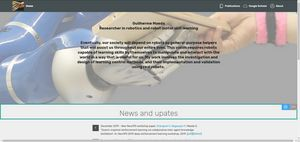
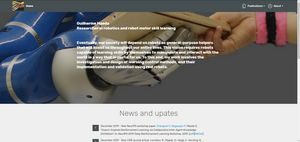
fix bio.

diff --git a/About.html b/About.html
@@ -7,9 +7,9 @@
   <meta name="generator" content="Mobirise v4.11.2, mobirise.com">
   <meta name="viewport" content="width=device-width, initial-scale=1, minimum-scale=1">
   <link rel="shortcut icon" href="assets/images/icon2.gif" type="image/x-icon">
-  <meta name="description" content="maeda-about">
+  <meta name="description" content="maeda-bio">
   
-  <title>maeda-About</title>
+  <title>maeda-bio</title>
   <link rel="stylesheet" href="assets/web/assets/mobirise-icons/mobirise-icons.css">
   <link rel="stylesheet" href="assets/bootstrap/css/bootstrap.min.css">
   <link rel="stylesheet" href="assets/bootstrap/css/bootstrap-grid.min.css">
@@ -23,7 +23,7 @@
   
 </head>
 <body>
-  <section class="menu cid-qTkzRZLJNu" once="menu" id="menu1-1e">
+  <section class="menu cid-rJTbhzoMgV" once="menu" id="menu1-30">
 
     
 
@@ -47,19 +47,17 @@
             </div>
         </div>
         <div class="collapse navbar-collapse" id="navbarSupportedContent">
-            <ul class="navbar-nav nav-dropdown nav-right" data-app-modern-menu="true"><li class="nav-item">
-                    <a class="nav-link link text-white display-4" href="publications.html" target="_blank"><span class="mbri-pages mbr-iconfont mbr-iconfont-btn"></span>Publications</a>
-                </li><li class="nav-item"><a class="nav-link link text-white display-4" href="https://scholar.google.co.jp/citations?user=fVCyyDgAAAAJ&hl=en" target="_blank"><span class="mbri-cloud mbr-iconfont mbr-iconfont-btn"></span>
+            <ul class="navbar-nav nav-dropdown nav-right" data-app-modern-menu="true"><li class="nav-item dropdown">
+                    <a class="nav-link link text-white dropdown-toggle display-4" href="publications.html" data-toggle="dropdown-submenu" aria-expanded="true"><span class="mbri-pages mbr-iconfont mbr-iconfont-btn"></span>Publications</a><div class="dropdown-menu"><a class="text-white dropdown-item display-4" href="publications.html" target="_blank">Publication list</a><a class="text-white dropdown-item display-4" href="https://scholar.google.co.jp/citations?user=fVCyyDgAAAAJ&hl=en" target="_blank" aria-expanded="false">Google Scholar</a></div>
+                </li><li class="nav-item dropdown"><a class="nav-link link text-white dropdown-toggle display-4" href="about.html" data-toggle="dropdown-submenu" aria-expanded="false"><span class="mbri-user mbr-iconfont mbr-iconfont-btn"></span>
                         
-                        Google Scholar</a></li><li class="nav-item"><a class="nav-link link text-white display-4" href="about.html" target="_blank"><span class="mbri-user mbr-iconfont mbr-iconfont-btn"></span>
-                        
-                        About</a></li></ul>
+                        About</a><div class="dropdown-menu"><a class="text-white dropdown-item display-4" href="about.html">Bio and contact</a><a class="text-white dropdown-item display-4" href="./pdf/resume_gjmaeda.pdf" target="_blank" aria-expanded="true">CV</a></div></li></ul>
             
         </div>
     </nav>
 </section>
 
-<section class="engine"><a href="https://mobirise.info/h">how to create a web page</a></section><section class="features11 cid-rJGOx5gKIQ" id="features11-1q">
+<section class="engine"><a href="https://mobirise.info/v">html templates</a></section><section class="features11 cid-rJTbhAfdv0" id="features11-31">
 
     
 
@@ -89,15 +87,11 @@
                             <div class="card-box">
                                 <p class="block-text mbr-fonts-style display-7">I am a research scientist working with robots. The motivation of my work is to contribute to the technology that will eventually enable robots to autonomously learn how to help us, without the need of hand-coded programs. 
 <br>
-<br>Applications of interest are those where the robot executes complex, physical interactions with the environment. By complex, I mean interactions that cannot be easily described by physics modeling and first-order principles. One example is when a robot must assess what a human partner is doing so that it can generate corresponding control commands to assist him/her. Another example is when a remotely-located robot must self-adapt to the environment without human supervision. 
+<br>Autonomous learning is essential when the robotics engineer cannot anticipate which tasks the robot will face after deployment---for example, robots at home or in the hospital---so he cannot pre-program it in advance. Or when the task cannot be easily described by physics modeling and first-order principles such as in this paper [1]; in which case the only hope is that the robot learns the underlying dynamics by itself. Another scenario is when a robot must assess what a human partner is doing so that it can generate corresponding control commands to assist him/her [2]. A learning control example is when a remotely-located robot must self-adapt to the environment without human supervision [3].&nbsp;<br>
+<br>Why should we care about such capabilities? Ultimately, we may have to rely on robots to fill existing/future gaps in our society. Think about the inevitable and unprecedented growth of the elderly population around the globe, the assistance of communities and exploration of resources in remote areas, rescue and disaster response, optimized and adaptive rehabilitation and prosthetics. It is hard to imagine there will be an engineer available to program the robot under these scenarios, where each scenario may encompass numerous and unforesseable tasks.<br>
+<br>Bio: since 2019, I am working as a researcher at Preferred Networks Inc in Tokyo, Japan. Previously, I was at the ATR Computational Neuroscience Lab in the Department of Brain Robot Interface (BRI) also in Japan. Between 2013-2017, I was with the Intelligent Autonomous Systems group (IAS) in TU Darmstadt working with Jan Peters where I led the participation of the IAS group in the European Funded Project 3rd Hand. I received my Ph.D from the Australian Centre for Field Robotics (ACFR) under the supervision of Hugh Durrant-Whyte, Surya Singh, David Rye, and Ian Manchester. Between 2005-2007 I did a master's at the Tokyo Institute of Technology (TITECH) in control engineering. 
 <br>
-<br>Why should we care about such capabilities? Ultimately, we may have to rely on robots to fill existing/future gaps in our society. Examples are found in the inevitable, unprecedented growth of the elderly population, the assistance of communities and exploration of resources in remote areas, rescue and disaster response, optimized and adaptive rehabilitation and prosthetics, to cite a few. 
-<br>
-<br>Since 2019, I am working as a researcher at Preferred Networks Inc in Tokyo, Japan. Previously, I was at the ATR Computational Neuroscience Lab in the Department of Brain Robot Interface (BRI) also in Japan. Between 2013-2017, I was with the Intelligent Autonomous Systems group (IAS) in TU Darmstadt working with Jan Peters where I led the participation of the IAS group in the European Funded Project 3rd Hand. I received my Ph.D from the Australian Centre for Field Robotics (ACFR) under the supervision of Hugh Durrant-Whyte, Surya Singh, David Rye, and Ian Manchester. Between 2005-2007 I did a master's at the Tokyo Institute of Technology (TITECH) in control engineering. 
-<br>
-<br>You can find my <a href="./pdf/resume_gjmaeda.pdf" target="_blank">CV here</a>. 
-<br>
-<br>Contact : gjmaeda@preferred.jp</p>
+<br>Contact : gjmaeda@preferred.jp<br></p>
                             </div>
                         </div>
 
@@ -107,6 +101,19 @@
             </div>
         </div> 
     </div>          
+</section>
+
+<section class="mbr-section article content1 cid-rJTbwxphx1" id="content1-32">
+    
+     
+
+    <div class="container">
+        <div class="media-container-row">
+            <div class="mbr-text col-12 mbr-fonts-style display-7 col-md-10"><p>[1] Maeda, G.; Koc, O.; Morimoto, J. (2018). “Reinforcement Learning of Phase Oscillators for Fast Adaptation to Moving Targets”, Proceedings of Machine Learning Research (PMLR). Conference on Robot Learning (CoRL) 
+<span style="font-size: 1rem;"></span></p><p>[2] Maeda, G.; Neumann, G.; Ewerton, M; Lioutikov, R.; Kroemer, O.; Peters, J. (2017). “Probabilistic Movement Primitives for Coordination of Multiple Human-Robot Collaborative Tasks”, Autonomous Robots (AURO), vol. 41, no. 3, pp. 593–612. 
+<span style="font-size: 1rem;"></span></p><p>[3] Maeda, G.; Manchester, I.; Rye, D. (2015). “Combined ILC and disturbance observer for the rejection of near-repetitive disturbances, with application to excavation”, IEEE Transactions on Control Systems Technology, vol. 23, no. 5, pp. 1754–1769.</p></div>
+        </div>
+    </div>
 </section>
 
 

diff --git a/about.html b/about.html
@@ -7,9 +7,9 @@
   <meta name="generator" content="Mobirise v4.11.2, mobirise.com">
   <meta name="viewport" content="width=device-width, initial-scale=1, minimum-scale=1">
   <link rel="shortcut icon" href="assets/images/icon2.gif" type="image/x-icon">
-  <meta name="description" content="maeda-about">
+  <meta name="description" content="maeda-bio">
   
-  <title>maeda-About</title>
+  <title>maeda-bio</title>
   <link rel="stylesheet" href="assets/web/assets/mobirise-icons/mobirise-icons.css">
   <link rel="stylesheet" href="assets/bootstrap/css/bootstrap.min.css">
   <link rel="stylesheet" href="assets/bootstrap/css/bootstrap-grid.min.css">
@@ -23,7 +23,7 @@
   
 </head>
 <body>
-  <section class="menu cid-qTkzRZLJNu" once="menu" id="menu1-1e">
+  <section class="menu cid-rJTbhzoMgV" once="menu" id="menu1-30">
 
     
 
@@ -47,19 +47,17 @@
             </div>
         </div>
         <div class="collapse navbar-collapse" id="navbarSupportedContent">
-            <ul class="navbar-nav nav-dropdown nav-right" data-app-modern-menu="true"><li class="nav-item">
-                    <a class="nav-link link text-white display-4" href="publications.html" target="_blank"><span class="mbri-pages mbr-iconfont mbr-iconfont-btn"></span>Publications</a>
-                </li><li class="nav-item"><a class="nav-link link text-white display-4" href="https://scholar.google.co.jp/citations?user=fVCyyDgAAAAJ&hl=en" target="_blank"><span class="mbri-cloud mbr-iconfont mbr-iconfont-btn"></span>
+            <ul class="navbar-nav nav-dropdown nav-right" data-app-modern-menu="true"><li class="nav-item dropdown">
+                    <a class="nav-link link text-white dropdown-toggle display-4" href="publications.html" data-toggle="dropdown-submenu" aria-expanded="true"><span class="mbri-pages mbr-iconfont mbr-iconfont-btn"></span>Publications</a><div class="dropdown-menu"><a class="text-white dropdown-item display-4" href="publications.html" target="_blank">Publication list</a><a class="text-white dropdown-item display-4" href="https://scholar.google.co.jp/citations?user=fVCyyDgAAAAJ&hl=en" target="_blank" aria-expanded="false">Google Scholar</a></div>
+                </li><li class="nav-item dropdown"><a class="nav-link link text-white dropdown-toggle display-4" href="about.html" data-toggle="dropdown-submenu" aria-expanded="false"><span class="mbri-user mbr-iconfont mbr-iconfont-btn"></span>
                         
-                        Google Scholar</a></li><li class="nav-item"><a class="nav-link link text-white display-4" href="about.html" target="_blank"><span class="mbri-user mbr-iconfont mbr-iconfont-btn"></span>
-                        
-                        About</a></li></ul>
+                        About</a><div class="dropdown-menu"><a class="text-white dropdown-item display-4" href="about.html">Bio and contact</a><a class="text-white dropdown-item display-4" href="./pdf/resume_gjmaeda.pdf" target="_blank" aria-expanded="true">CV</a></div></li></ul>
             
         </div>
     </nav>
 </section>
 
-<section class="engine"><a href="https://mobirise.info/h">how to create a web page</a></section><section class="features11 cid-rJGOx5gKIQ" id="features11-1q">
+<section class="engine"><a href="https://mobirise.info/v">html templates</a></section><section class="features11 cid-rJTbhAfdv0" id="features11-31">
 
     
 
@@ -89,15 +87,11 @@
                             <div class="card-box">
                                 <p class="block-text mbr-fonts-style display-7">I am a research scientist working with robots. The motivation of my work is to contribute to the technology that will eventually enable robots to autonomously learn how to help us, without the need of hand-coded programs. 
 <br>
-<br>Applications of interest are those where the robot executes complex, physical interactions with the environment. By complex, I mean interactions that cannot be easily described by physics modeling and first-order principles. One example is when a robot must assess what a human partner is doing so that it can generate corresponding control commands to assist him/her. Another example is when a remotely-located robot must self-adapt to the environment without human supervision. 
+<br>Autonomous learning is essential when the robotics engineer cannot anticipate which tasks the robot will face after deployment---for example, robots at home or in the hospital---so he cannot pre-program it in advance. Or when the task cannot be easily described by physics modeling and first-order principles such as in this paper [1]; in which case the only hope is that the robot learns the underlying dynamics by itself. Another scenario is when a robot must assess what a human partner is doing so that it can generate corresponding control commands to assist him/her [2]. A learning control example is when a remotely-located robot must self-adapt to the environment without human supervision [3].&nbsp;<br>
+<br>Why should we care about such capabilities? Ultimately, we may have to rely on robots to fill existing/future gaps in our society. Think about the inevitable and unprecedented growth of the elderly population around the globe, the assistance of communities and exploration of resources in remote areas, rescue and disaster response, optimized and adaptive rehabilitation and prosthetics. It is hard to imagine there will be an engineer available to program the robot under these scenarios, where each scenario may encompass numerous and unforesseable tasks.<br>
+<br>Bio: since 2019, I am working as a researcher at Preferred Networks Inc in Tokyo, Japan. Previously, I was at the ATR Computational Neuroscience Lab in the Department of Brain Robot Interface (BRI) also in Japan. Between 2013-2017, I was with the Intelligent Autonomous Systems group (IAS) in TU Darmstadt working with Jan Peters where I led the participation of the IAS group in the European Funded Project 3rd Hand. I received my Ph.D from the Australian Centre for Field Robotics (ACFR) under the supervision of Hugh Durrant-Whyte, Surya Singh, David Rye, and Ian Manchester. Between 2005-2007 I did a master's at the Tokyo Institute of Technology (TITECH) in control engineering. 
 <br>
-<br>Why should we care about such capabilities? Ultimately, we may have to rely on robots to fill existing/future gaps in our society. Examples are found in the inevitable, unprecedented growth of the elderly population, the assistance of communities and exploration of resources in remote areas, rescue and disaster response, optimized and adaptive rehabilitation and prosthetics, to cite a few. 
-<br>
-<br>Since 2019, I am working as a researcher at Preferred Networks Inc in Tokyo, Japan. Previously, I was at the ATR Computational Neuroscience Lab in the Department of Brain Robot Interface (BRI) also in Japan. Between 2013-2017, I was with the Intelligent Autonomous Systems group (IAS) in TU Darmstadt working with Jan Peters where I led the participation of the IAS group in the European Funded Project 3rd Hand. I received my Ph.D from the Australian Centre for Field Robotics (ACFR) under the supervision of Hugh Durrant-Whyte, Surya Singh, David Rye, and Ian Manchester. Between 2005-2007 I did a master's at the Tokyo Institute of Technology (TITECH) in control engineering. 
-<br>
-<br>You can find my <a href="./pdf/resume_gjmaeda.pdf" target="_blank">CV here</a>. 
-<br>
-<br>Contact : gjmaeda@preferred.jp</p>
+<br>Contact : gjmaeda@preferred.jp<br></p>
                             </div>
                         </div>
 
@@ -107,6 +101,19 @@
             </div>
         </div> 
     </div>          
+</section>
+
+<section class="mbr-section article content1 cid-rJTbwxphx1" id="content1-32">
+    
+     
+
+    <div class="container">
+        <div class="media-container-row">
+            <div class="mbr-text col-12 mbr-fonts-style display-7 col-md-10"><p>[1] Maeda, G.; Koc, O.; Morimoto, J. (2018). “Reinforcement Learning of Phase Oscillators for Fast Adaptation to Moving Targets”, Proceedings of Machine Learning Research (PMLR). Conference on Robot Learning (CoRL) 
+<span style="font-size: 1rem;"></span></p><p>[2] Maeda, G.; Neumann, G.; Ewerton, M; Lioutikov, R.; Kroemer, O.; Peters, J. (2017). “Probabilistic Movement Primitives for Coordination of Multiple Human-Robot Collaborative Tasks”, Autonomous Robots (AURO), vol. 41, no. 3, pp. 593–612. 
+<span style="font-size: 1rem;"></span></p><p>[3] Maeda, G.; Manchester, I.; Rye, D. (2015). “Combined ILC and disturbance observer for the rejection of near-repetitive disturbances, with application to excavation”, IEEE Transactions on Control Systems Technology, vol. 23, no. 5, pp. 1754–1769.</p></div>
+        </div>
+    </div>
 </section>
 
 

diff --git a/publications.html b/publications.html
@@ -23,41 +23,7 @@
   
 </head>
 <body>
-  <section class="menu cid-qTkzRZLJNu" once="menu" id="menu1-b">
-
-    
-
-    <nav class="navbar navbar-expand beta-menu navbar-dropdown align-items-center navbar-fixed-top navbar-toggleable-sm">
-        <button class="navbar-toggler navbar-toggler-right" type="button" data-toggle="collapse" data-target="#navbarSupportedContent" aria-controls="navbarSupportedContent" aria-expanded="false" aria-label="Toggle navigation">
-            <div class="hamburger">
-                <span></span>
-                <span></span>
-                <span></span>
-                <span></span>
-            </div>
-        </button>
-        <div class="menu-logo">
-            <div class="navbar-brand">
-                <span class="navbar-logo">
-                    <a href="index.html">
-                         <img src="assets/images/icon2.gif" alt="Mobirise" title="" style="height: 3.8rem;">
-                    </a>
-                </span>
-                <span class="navbar-caption-wrap"><a class="navbar-caption text-white display-4" href="index.html">Home</a></span>
-            </div>
-        </div>
-        <div class="collapse navbar-collapse" id="navbarSupportedContent">
-            <ul class="navbar-nav nav-dropdown nav-right" data-app-modern-menu="true"><li class="nav-item dropdown">
-                    <a class="nav-link link text-white dropdown-toggle display-4" href="publications.html" target="_blank" data-toggle="dropdown-submenu" aria-expanded="false"><span class="mbri-pages mbr-iconfont mbr-iconfont-btn"></span>Publications</a><div class="dropdown-menu"><a class="text-white dropdown-item display-4" href="publications.html" target="_blank">Publication list</a><a class="text-white dropdown-item display-4" href="https://scholar.google.co.jp/citations?user=fVCyyDgAAAAJ&hl=en" target="_blank" aria-expanded="false">Google Scholar</a></div>
-                </li><li class="nav-item dropdown"><a class="nav-link link text-white dropdown-toggle display-4" href="about.html" target="_blank" data-toggle="dropdown-submenu" aria-expanded="false"><span class="mbri-user mbr-iconfont mbr-iconfont-btn"></span>
-                        
-                        About</a><div class="dropdown-menu"><a class="text-white dropdown-item display-4" href="bio.html" target="_blank">Bio and contact</a><a class="text-white dropdown-item display-4" href="./pdf/resume_gjmaeda.pdf" target="_blank" aria-expanded="true">CV</a></div></li></ul>
-            
-        </div>
-    </nav>
-</section>
-
-<section class="engine"><a href="https://mobirise.info/i">free site creation software</a></section><section class="header1 cid-rJBDbmgh4x" id="header16-11">
+  <section class="header1 cid-rJBDbmgh4x" id="header16-11">
 
     
 
@@ -77,7 +43,7 @@
 
 </section>
 
-<section class="mbr-section article content1 cid-rJHnwhnCUP" id="content1-1x">
+<section class="engine"><a href="https://mobirise.info">Mobirise</a></section><section class="mbr-section article content1 cid-rJHnwhnCUP" id="content1-1x">
     
      
 
@@ -111,6 +77,40 @@
             </div>
         </div>
     </div>
+</section>
+
+<section class="menu cid-qTkzRZLJNu" once="menu" id="menu1-b">
+
+    
+
+    <nav class="navbar navbar-expand beta-menu navbar-dropdown align-items-center navbar-fixed-top navbar-toggleable-sm">
+        <button class="navbar-toggler navbar-toggler-right" type="button" data-toggle="collapse" data-target="#navbarSupportedContent" aria-controls="navbarSupportedContent" aria-expanded="false" aria-label="Toggle navigation">
+            <div class="hamburger">
+                <span></span>
+                <span></span>
+                <span></span>
+                <span></span>
+            </div>
+        </button>
+        <div class="menu-logo">
+            <div class="navbar-brand">
+                <span class="navbar-logo">
+                    <a href="index.html">
+                         <img src="assets/images/icon2.gif" alt="Mobirise" title="" style="height: 3.8rem;">
+                    </a>
+                </span>
+                <span class="navbar-caption-wrap"><a class="navbar-caption text-white display-4" href="index.html">Home</a></span>
+            </div>
+        </div>
+        <div class="collapse navbar-collapse" id="navbarSupportedContent">
+            <ul class="navbar-nav nav-dropdown nav-right" data-app-modern-menu="true"><li class="nav-item dropdown open">
+                    <a class="nav-link link text-white dropdown-toggle display-4" href="publications.html" data-toggle="dropdown-submenu" aria-expanded="true"><span class="mbri-pages mbr-iconfont mbr-iconfont-btn"></span>Publications</a><div class="dropdown-menu"><a class="text-white dropdown-item display-4" href="publications.html" target="_blank">Publication list</a><a class="text-white dropdown-item display-4" href="https://scholar.google.co.jp/citations?user=fVCyyDgAAAAJ&hl=en" target="_blank" aria-expanded="false">Google Scholar</a></div>
+                </li><li class="nav-item dropdown"><a class="nav-link link text-white dropdown-toggle display-4" href="about.html" data-toggle="dropdown-submenu" aria-expanded="false"><span class="mbri-user mbr-iconfont mbr-iconfont-btn"></span>
+                        
+                        About</a><div class="dropdown-menu"><a class="text-white dropdown-item display-4" href="about.html">Bio and contact</a><a class="text-white dropdown-item display-4" href="./pdf/resume_gjmaeda.pdf" target="_blank" aria-expanded="true">CV</a></div></li></ul>
+            
+        </div>
+    </nav>
 </section>
 
 <section class="mbr-section article content1 cid-rJpFAuDlRG" id="content1-k">

diff --git a/bio.html b/bio.html
@@ -7,9 +7,9 @@
   <meta name="generator" content="Mobirise v4.11.2, mobirise.com">
   <meta name="viewport" content="width=device-width, initial-scale=1, minimum-scale=1">
   <link rel="shortcut icon" href="assets/images/icon2.gif" type="image/x-icon">
-  <meta name="description" content="maeda-bio">
+  <meta name="description" content="maeda-bio_d">
   
-  <title>maeda-bio</title>
+  <title>maeda-bio_d</title>
   <link rel="stylesheet" href="assets/web/assets/mobirise-icons/mobirise-icons.css">
   <link rel="stylesheet" href="assets/bootstrap/css/bootstrap.min.css">
   <link rel="stylesheet" href="assets/bootstrap/css/bootstrap-grid.min.css">
@@ -48,16 +48,16 @@
         </div>
         <div class="collapse navbar-collapse" id="navbarSupportedContent">
             <ul class="navbar-nav nav-dropdown nav-right" data-app-modern-menu="true"><li class="nav-item dropdown">
-                    <a class="nav-link link text-white dropdown-toggle display-4" href="publications.html" target="_blank" data-toggle="dropdown-submenu" aria-expanded="false"><span class="mbri-pages mbr-iconfont mbr-iconfont-btn"></span>Publications</a><div class="dropdown-menu"><a class="text-white dropdown-item display-4" href="publications.html" target="_blank">Publication list</a><a class="text-white dropdown-item display-4" href="https://scholar.google.co.jp/citations?user=fVCyyDgAAAAJ&hl=en" target="_blank" aria-expanded="false">Google Scholar</a></div>
-                </li><li class="nav-item dropdown"><a class="nav-link link text-white dropdown-toggle display-4" href="about.html" target="_blank" data-toggle="dropdown-submenu" aria-expanded="false"><span class="mbri-user mbr-iconfont mbr-iconfont-btn"></span>
+                    <a class="nav-link link text-white dropdown-toggle display-4" href="publications.html" data-toggle="dropdown-submenu" aria-expanded="true"><span class="mbri-pages mbr-iconfont mbr-iconfont-btn"></span>Publications</a><div class="dropdown-menu"><a class="text-white dropdown-item display-4" href="publications.html" target="_blank">Publication list</a><a class="text-white dropdown-item display-4" href="https://scholar.google.co.jp/citations?user=fVCyyDgAAAAJ&hl=en" target="_blank" aria-expanded="false">Google Scholar</a></div>
+                </li><li class="nav-item dropdown"><a class="nav-link link text-white dropdown-toggle display-4" href="about.html" data-toggle="dropdown-submenu" aria-expanded="false"><span class="mbri-user mbr-iconfont mbr-iconfont-btn"></span>
                         
-                        About</a><div class="dropdown-menu"><a class="text-white dropdown-item display-4" href="bio.html" target="_blank">Bio and contact</a><a class="text-white dropdown-item display-4" href="./pdf/resume_gjmaeda.pdf" target="_blank" aria-expanded="true">CV</a></div></li></ul>
+                        About</a><div class="dropdown-menu"><a class="text-white dropdown-item display-4" href="about.html">Bio and contact</a><a class="text-white dropdown-item display-4" href="./pdf/resume_gjmaeda.pdf" target="_blank" aria-expanded="true">CV</a></div></li></ul>
             
         </div>
     </nav>
 </section>
 
-<section class="engine"><a href="https://mobirise.info/z">best css templates</a></section><section class="features11 cid-rJGOx5gKIQ" id="features11-1q">
+<section class="engine"><a href="https://mobirise.info/z">best free website templates</a></section><section class="features11 cid-rJGOx5gKIQ" id="features11-1q">
 
     
 

diff --git a/ppmp.html b/ppmp.html
@@ -47,17 +47,17 @@
             </div>
         </div>
         <div class="collapse navbar-collapse" id="navbarSupportedContent">
-            <ul class="navbar-nav nav-dropdown nav-right" data-app-modern-menu="true"><li class="nav-item dropdown">
-                    <a class="nav-link link text-white dropdown-toggle display-4" href="publications.html" target="_blank" data-toggle="dropdown-submenu" aria-expanded="false"><span class="mbri-pages mbr-iconfont mbr-iconfont-btn"></span>Publications</a><div class="dropdown-menu"><a class="text-white dropdown-item display-4" href="publications.html" target="_blank">Publication list</a><a class="text-white dropdown-item display-4" href="https://scholar.google.co.jp/citations?user=fVCyyDgAAAAJ&hl=en" target="_blank" aria-expanded="false">Google Scholar</a></div>
-                </li><li class="nav-item dropdown"><a class="nav-link link text-white dropdown-toggle display-4" href="about.html" target="_blank" data-toggle="dropdown-submenu" aria-expanded="false"><span class="mbri-user mbr-iconfont mbr-iconfont-btn"></span>
+            <ul class="navbar-nav nav-dropdown nav-right" data-app-modern-menu="true"><li class="nav-item dropdown open">
+                    <a class="nav-link link text-white dropdown-toggle display-4" href="publications.html" data-toggle="dropdown-submenu" aria-expanded="true"><span class="mbri-pages mbr-iconfont mbr-iconfont-btn"></span>Publications</a><div class="dropdown-menu"><a class="text-white dropdown-item display-4" href="publications.html" target="_blank">Publication list</a><a class="text-white dropdown-item display-4" href="https://scholar.google.co.jp/citations?user=fVCyyDgAAAAJ&hl=en" target="_blank" aria-expanded="false">Google Scholar</a></div>
+                </li><li class="nav-item dropdown"><a class="nav-link link text-white dropdown-toggle display-4" href="about.html" data-toggle="dropdown-submenu" aria-expanded="false"><span class="mbri-user mbr-iconfont mbr-iconfont-btn"></span>
                         
-                        About</a><div class="dropdown-menu"><a class="text-white dropdown-item display-4" href="bio.html" target="_blank">Bio and contact</a><a class="text-white dropdown-item display-4" href="./pdf/resume_gjmaeda.pdf" target="_blank" aria-expanded="true">CV</a></div></li></ul>
+                        About</a><div class="dropdown-menu"><a class="text-white dropdown-item display-4" href="about.html">Bio and contact</a><a class="text-white dropdown-item display-4" href="./pdf/resume_gjmaeda.pdf" target="_blank" aria-expanded="true">CV</a></div></li></ul>
             
         </div>
     </nav>
 </section>
 
-<section class="engine"><a href="https://mobirise.info/g">how to build your own website</a></section><section class="mbr-section content4 cid-rJMYajq2VA" id="content4-2p">
+<section class="engine"><a href="https://mobirise.info/e">make your own website for free</a></section><section class="mbr-section content4 cid-rJMYajq2VA" id="content4-2p">
 
     
 

diff --git a/index.html b/index.html
@@ -47,17 +47,17 @@
             </div>
         </div>
         <div class="collapse navbar-collapse" id="navbarSupportedContent">
-            <ul class="navbar-nav nav-dropdown nav-right" data-app-modern-menu="true"><li class="nav-item dropdown">
-                    <a class="nav-link link text-white dropdown-toggle display-4" href="publications.html" target="_blank" data-toggle="dropdown-submenu" aria-expanded="false"><span class="mbri-pages mbr-iconfont mbr-iconfont-btn"></span>Publications</a><div class="dropdown-menu"><a class="text-white dropdown-item display-4" href="publications.html" target="_blank">Publication list</a><a class="text-white dropdown-item display-4" href="https://scholar.google.co.jp/citations?user=fVCyyDgAAAAJ&hl=en" target="_blank" aria-expanded="false">Google Scholar</a></div>
-                </li><li class="nav-item dropdown"><a class="nav-link link text-white dropdown-toggle display-4" href="about.html" target="_blank" data-toggle="dropdown-submenu" aria-expanded="false"><span class="mbri-user mbr-iconfont mbr-iconfont-btn"></span>
+            <ul class="navbar-nav nav-dropdown nav-right" data-app-modern-menu="true"><li class="nav-item dropdown open">
+                    <a class="nav-link link text-white dropdown-toggle display-4" href="publications.html" data-toggle="dropdown-submenu" aria-expanded="true"><span class="mbri-pages mbr-iconfont mbr-iconfont-btn"></span>Publications</a><div class="dropdown-menu"><a class="text-white dropdown-item display-4" href="publications.html" target="_blank">Publication list</a><a class="text-white dropdown-item display-4" href="https://scholar.google.co.jp/citations?user=fVCyyDgAAAAJ&hl=en" target="_blank" aria-expanded="false">Google Scholar</a></div>
+                </li><li class="nav-item dropdown"><a class="nav-link link text-white dropdown-toggle display-4" href="about.html" data-toggle="dropdown-submenu" aria-expanded="false"><span class="mbri-user mbr-iconfont mbr-iconfont-btn"></span>
                         
-                        About</a><div class="dropdown-menu"><a class="text-white dropdown-item display-4" href="bio.html" target="_blank">Bio and contact</a><a class="text-white dropdown-item display-4" href="./pdf/resume_gjmaeda.pdf" target="_blank" aria-expanded="true">CV</a></div></li></ul>
+                        About</a><div class="dropdown-menu"><a class="text-white dropdown-item display-4" href="about.html">Bio and contact</a><a class="text-white dropdown-item display-4" href="./pdf/resume_gjmaeda.pdf" target="_blank" aria-expanded="true">CV</a></div></li></ul>
             
         </div>
     </nav>
 </section>
 
-<section class="engine"><a href="https://mobirise.info/w">html5 templates</a></section><section class="header1 cid-rJBn3T8pcH mbr-parallax-background" id="header16-10">
+<section class="engine"><a href="https://mobirise.info/w">free html5 templates</a></section><section class="header1 cid-rJBn3T8pcH mbr-parallax-background" id="header16-10">
 
     
 
